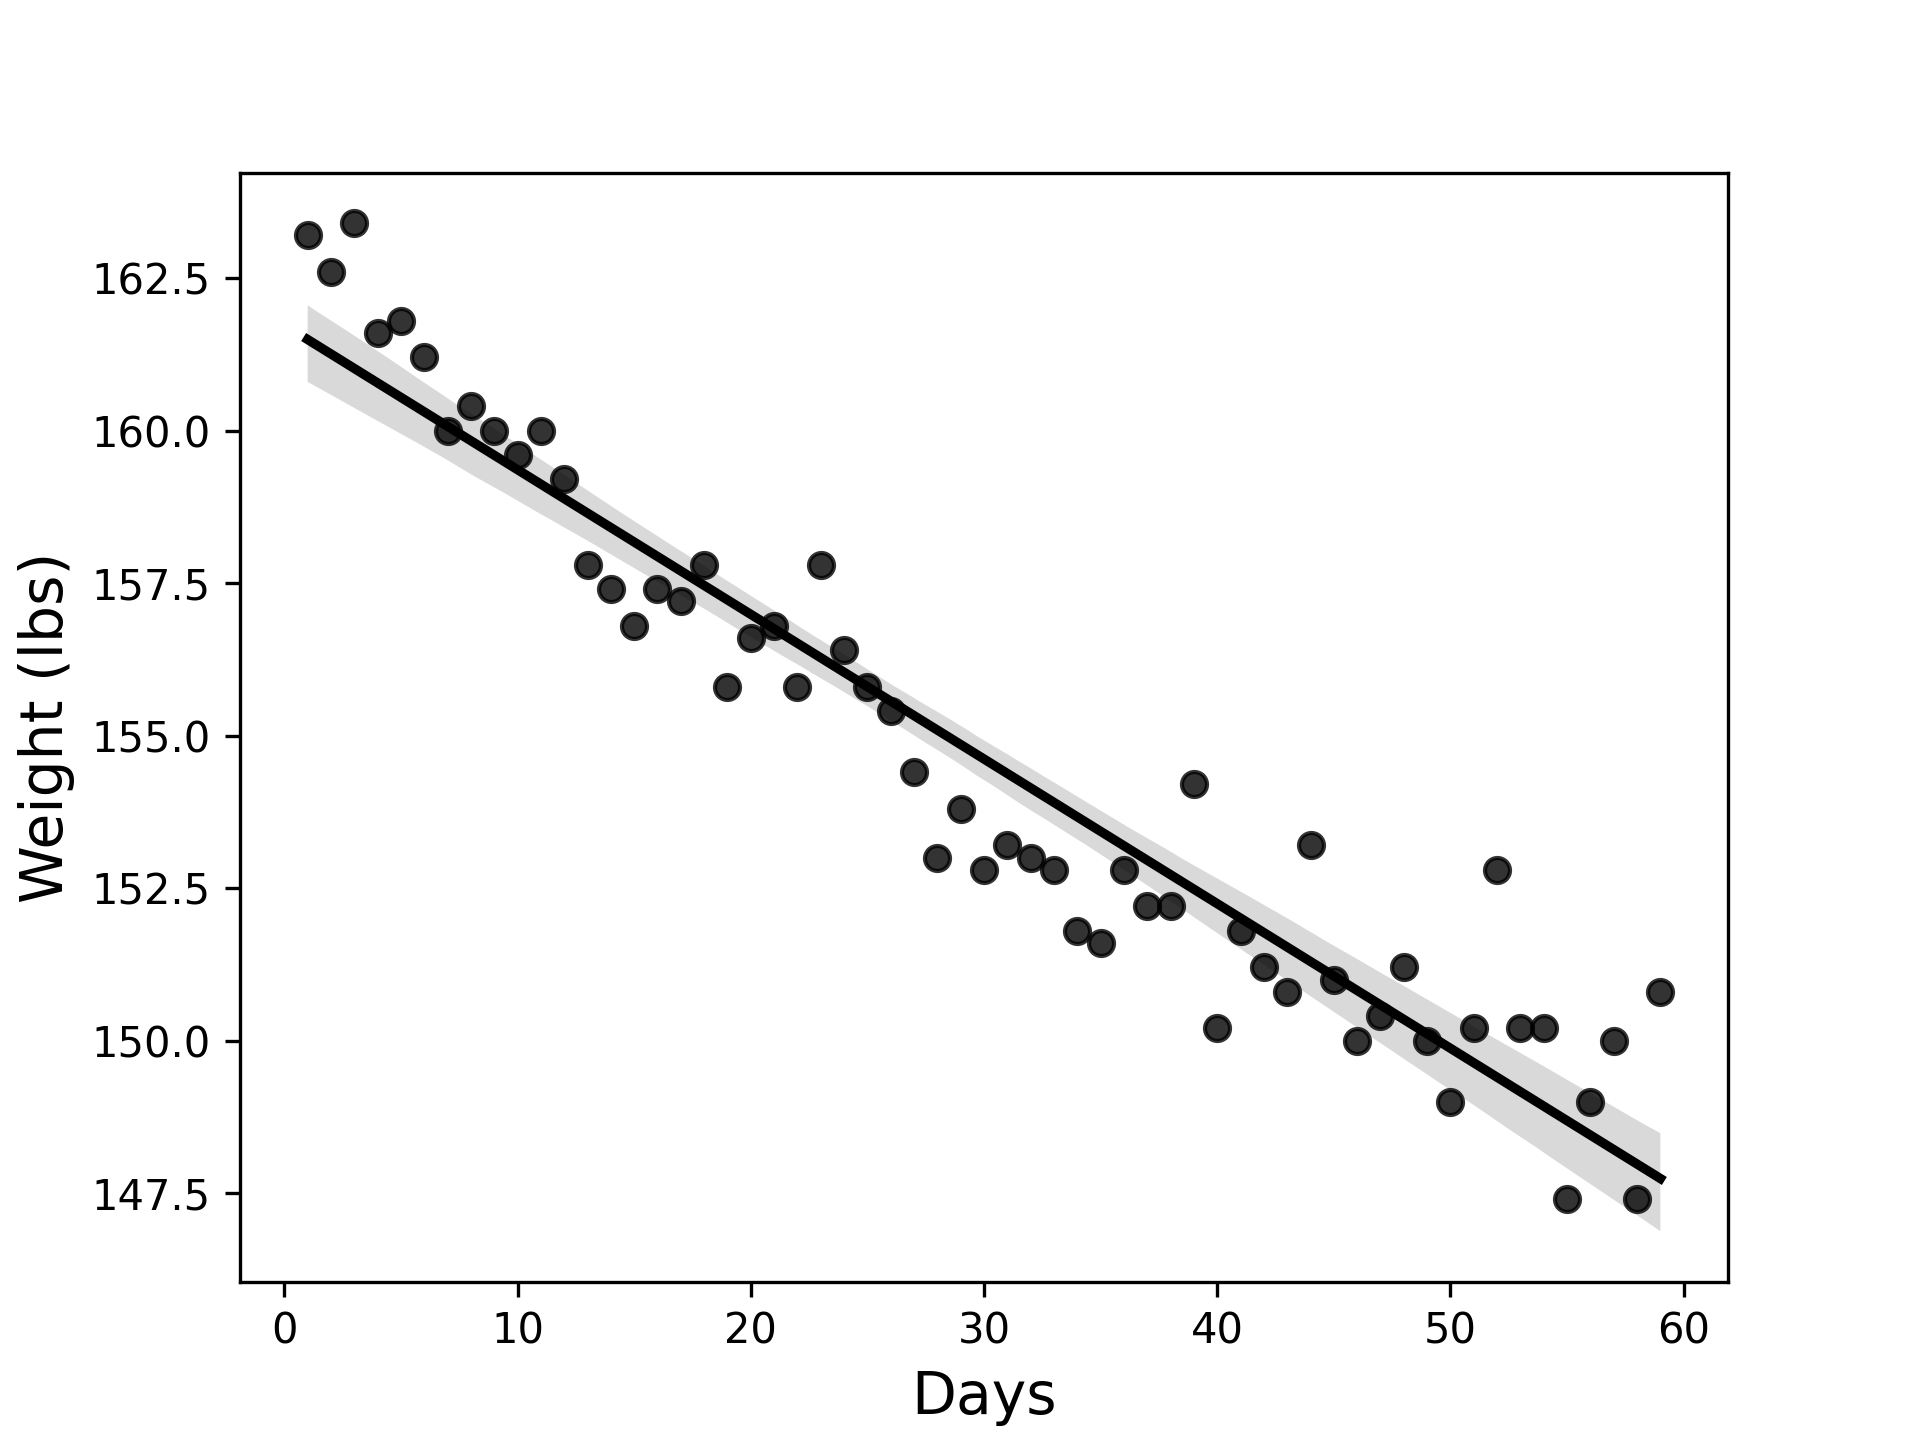
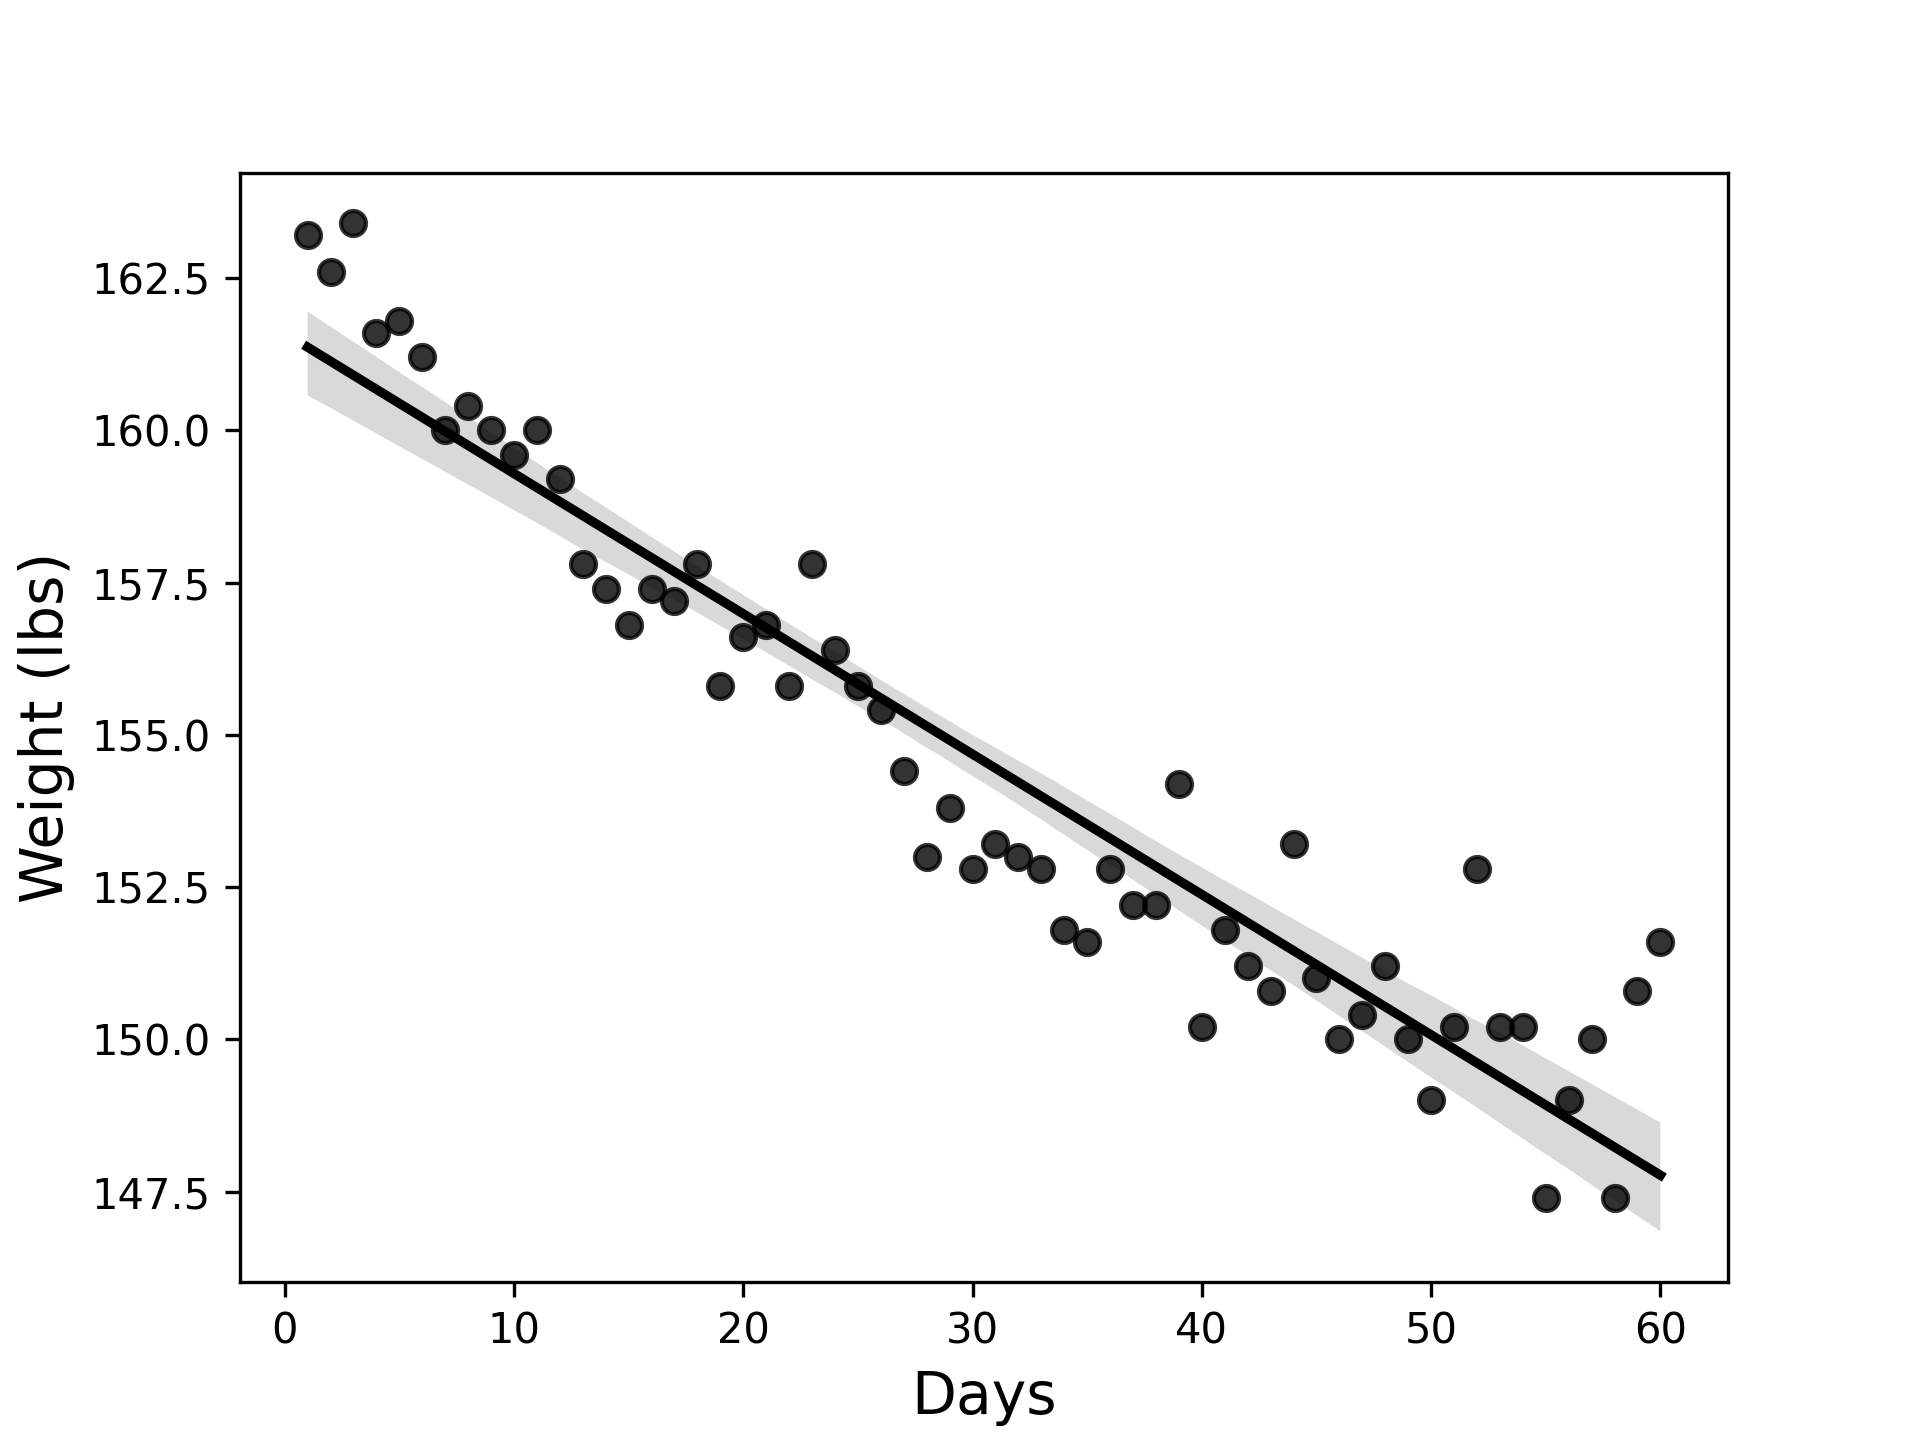
Updated weight.py and weight.png

diff --git a/Weight.py b/Weight.py
@@ -7,12 +7,12 @@ import seaborn as sns
 # Creates an array of elapsed days and assigns it to days_elapsed
 days_elapsed = np.array([1, 2, 3 ,4, 5, 6, 7, 8, 9, 10,11,12,13, 14,15,16,17,18,
                          19, 20,21,22,23,24,25,26,27,28,29,30,31,32,33,34,35,36,37,38,39,
-                         40,41,42,43,44,45,46,47,48,49,50,51,52,53,54,55,56,57,58,59]).reshape(-1,1)
+                         40,41,42,43,44,45,46,47,48,49,50,51,52,53,54,55,56,57,58,59,60]).reshape(-1,1)
 weight = np.array([163.2, 162.6, 163.4, 161.6, 161.8, 161.2, 160.0, 160.4, 160.0, 159.6,160.0,159.2,157.8, 157.4,156.8,157.4,
                    157.2, 157.8,155.8, 156.6,156.8,155.8,157.8,156.4,155.8,155.4,154.4,153.0,153.8,152.8,153.2,
                    153.0,152.8,151.8,151.6,152.8,152.2,152.2,154.2,150.2, 151.8,151.2,150.8,153.2,
                    151.0,150.0,150.4,151.2,150.0,149.0,150.2,152.8,150.2,150.2,147.4,149.0,150.0,147.4,
-                   150.8])
+                   150.8,151.6])
 
 # Instantiates a LinearRegression model and fits it to the above arrays
 model = sklearn.linear_model.LinearRegression().fit(days_elapsed,weight)
